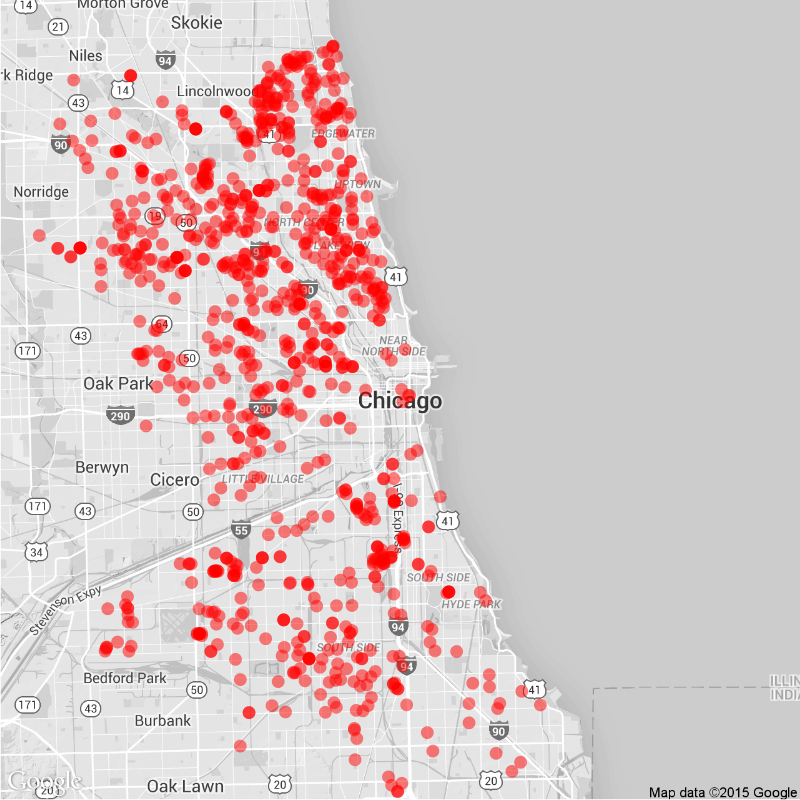
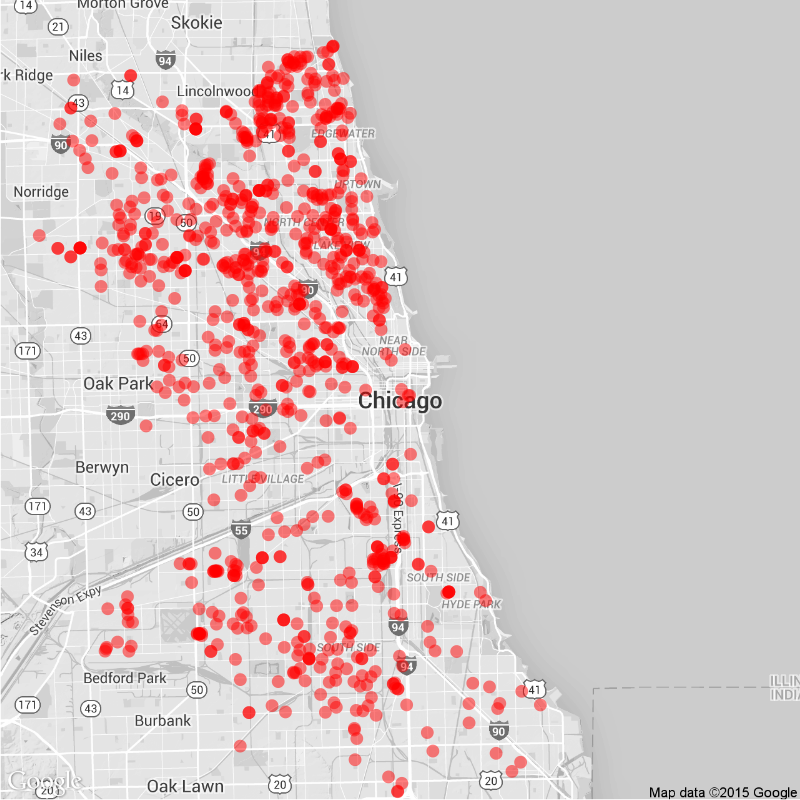
Daily Maps

diff --git a/daily.md b/daily.md
@@ -15,22 +15,22 @@ tags: Chicago NYC weekly daily rats
 
 ### Daily
 
-Yesterday (July 17), there were 140 calls to Chicago's 311 line about rats.
+Yesterday (July 18), there were 41 calls to Chicago's 311 line about rats.
 ![Chicago rat calls to 311 weekly map]({{ site.cityimages }}/daily/Chicago_Rat_Map_Daily.png)
 
 ### Weekly
-Between July 11 and July 17, there were 1004 calls to Chicago's 311 line about rats. The average number of weekly calls for this time of year is 874.
+Between July 12 and July 18, there were 976 calls to Chicago's 311 line about rats. The average number of weekly calls for this time of year is 874.
 ![Chicago rat calls to 311 weekly map]({{ site.cityimages }}/daily/Chicago_Rat_Map_Weekly.png)
 ***
 # New York City <a id="nyc"><a>
 
 ### Daily
 
-Yesterday (July 17), there were 0 calls to New York City's 311 line about rats.
+Yesterday (July 18), there were 0 calls to New York City's 311 line about rats.
 ![NYC rat calls to 311 weekly map]({{ site.cityimages }}/daily/NYC_Rat_Map_Daily.png)
 
 ### Weekly
-Between July 11 and July 17, there were 0 calls to New York City's 311 line about rats. The average number of weekly calls for this time of year is 276.
+Between July 12 and July 18, there were 0 calls to New York City's 311 line about rats. The average number of weekly calls for this time of year is 276.
 ![NYC rat calls to 311 weekly map]({{ site.cityimages }}/daily/NYC_Rat_Map_Weekly.png)
 
 Each red dot represents one call about a rat seen in that location. The dots are transparent, so multiple calls from one location will be seen as a solid dot. The usual caveats apply: more calls do not necessarily mean that there are more rats in that location than other parts of the city. A cluster of dots could indicate that one resident is unusually vocal about rodents in his or her neighborhood. Also, more densely populated neighborhoods tend to make more calls to 311.
